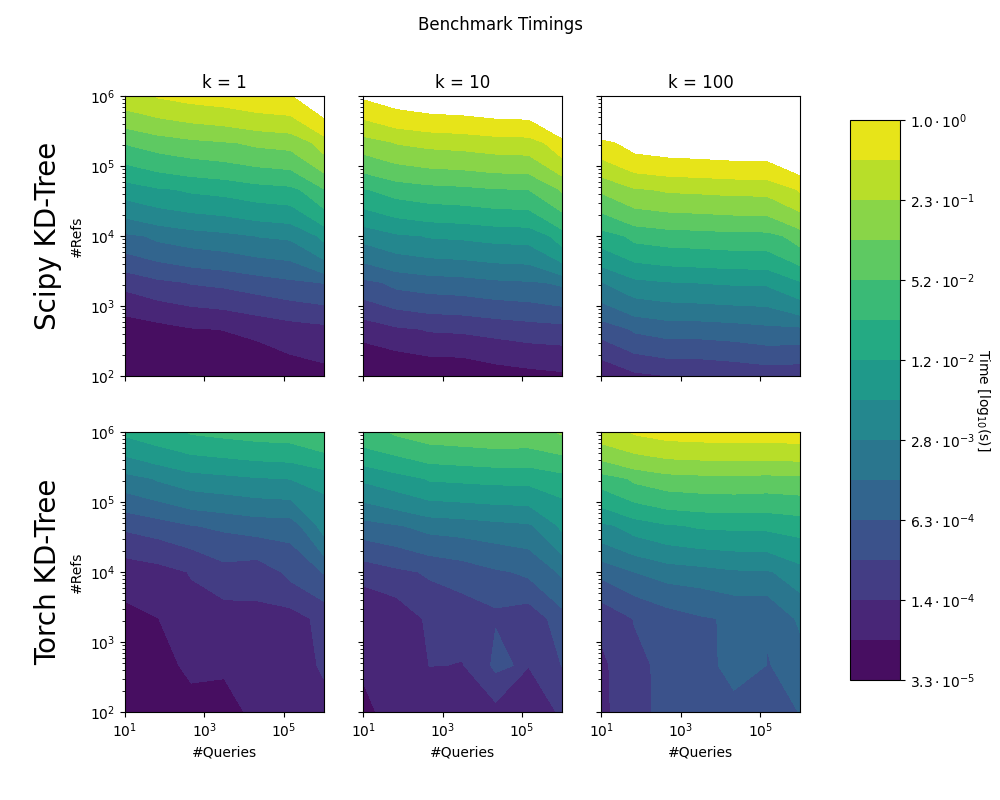
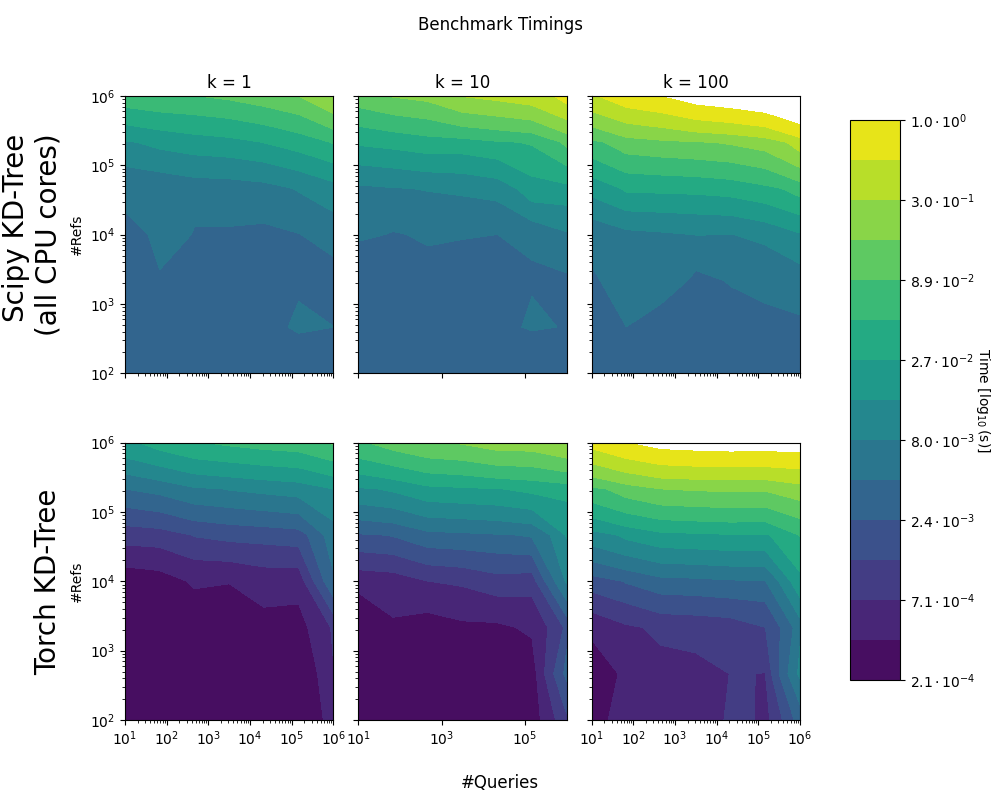
fix, build, bench: multiple improvements across library and tooling
- fix(import): resolve circular import by loading compiled extension via
  importlib.import_module instead of relative package import; keeps
  Windows CUDA DLL fallback working
- fix(import): correct __all__ to use string names rather than function
  objects
- build(cmake): bump cmake_minimum_required to 3.18 (CMP0104 / proper
  CUDA_ARCHITECTURES support)
- build(cmake): set CMAKE_CUDA_FLAGS before project() so flags apply
  during CUDA compiler detection; add --allow-unsupported-compiler on
  Windows for CUDA 13 + VS 18 (2026) compatibility
- build(cmake): replace hardcoded SM 50 architectures with CUDA_ARCH_LIST
  cache variable (default 75-real;80-real;86-real;89-real;90-virtual);
  CUDA 13 dropped SM < 70
- build(cmake): fix PIP_BUILD post-build copy destination so setuptools
  finds the .pyd at the expected path
- build(cmake): replace deprecated CUDA_NVCC_FLAGS_DEBUG with
  target_compile_options generator expression (-g -G, Debug+CUDA only)
- build(cmake): remove verbose print-all-variables debug loop
- bench(benchmark): use workers=-1 in scipy KDTree query for fair
  multi-threaded CPU comparison (fixes #11)
- bench(plot): add shared x-axis label using fig.supxlabel instead of
  per-subplot labels; reduce subplot spacing (hspace/wspace)
- bench(plot): label scipy row as 'Scipy KD-Tree (all CPU cores)'
- bench: regenerate benchmark_results.npz, benchmark.png, and
  benchmark_speedup_ratio.png with updated results
[…]

diff --git a/benchmark/plot_benchmark.py b/benchmark/plot_benchmark.py
@@ -19,7 +19,8 @@ max_timing = np.minimum(np.max(valid_timing_results), 1.)
 cont_lines = np.logspace(np.log10(np.min(valid_timing_results)), np.log10(max_timing), num=15)
 #cont_lines = np.log(cont_lines) / np.log(10)
 #Create figure matrix
-fig, axes = plt.subplots(nrows=nr_algs, ncols=nr_ks, sharex='col', sharey='row') #, gridspec_kw={'hspace': 0, 'wspace': 0})
+fig, axes = plt.subplots(nrows=nr_algs, ncols=nr_ks, sharex='col', sharey='row',
+                         gridspec_kw={'hspace': 0.1, 'wspace': 0.1})
 
 #https://stackoverflow.com/questions/25983218/scientific-notation-colorbar-in-matplotlib
 def fmt(x, pos):
@@ -43,18 +44,16 @@ for alg_i in range(nr_algs):
         if k_i == 0:
             ax.set_ylabel("#Refs")
 
-        if alg_i == nr_algs - 1:
-            ax.set_xlabel("#Queries")
 
-
-fig.subplots_adjust(right=0.8)
+fig.subplots_adjust(right=0.8, bottom=0.1)
+fig.supxlabel('#Queries', fontsize=12)
 cbar_ax = fig.add_axes([0.85, 0.15, 0.05, 0.7])
 cbar = fig.colorbar(cont, cax=cbar_ax, format=ticker.FuncFormatter(fmt))
 cbar.set_label('Time [$\\log_{10}$(s)]', rotation=270, labelpad=12)
 
 #https://stackoverflow.com/questions/24814490/how-to-label-rows-cols-of-a-matrix-of-plots
 #Add some annotations
-for ax, row in zip(axes[:,0], ['Scipy KD-Tree', 'Torch KD-Tree']):
+for ax, row in zip(axes[:,0], ['Scipy KD-Tree\n(all CPU cores)', 'Torch KD-Tree']):
     ax.annotate(row, (0, 0.5), xytext=(-45, 0), ha='right', va='center',
                 size=20, rotation=90, xycoords='axes fraction',
                 textcoords='offset points')
@@ -68,7 +67,8 @@ fig.savefig("benchmark.png")
 ratios = timing_results[0] / timing_results[1]
 #cont_lines = np.linspace(0.1, 29, num=12)
 #cont_lines = np.sort(np.concatenate([cont_lines, [1.]]))
-fig, axes = plt.subplots(nrows=1, ncols=nr_ks, sharey='row') #, gridspec_kw={'hspace': 0, 'wspace': 0})
+fig, axes = plt.subplots(nrows=1, ncols=nr_ks, sharey='row',
+                         gridspec_kw={'wspace': 0.12})
 for k_i, k in enumerate(ks):
     ax = fig.axes[k_i]
     fig.suptitle("Speedup Ratio (GPU/CPU)")
@@ -89,12 +89,12 @@ for k_i, k in enumerate(ks):
     if k_i == 0:
         ax.set_ylabel("#Refs")
 
-    ax.set_xlabel("#Queries")
     #ax.grid(True,which="both",ls="--",c='gray')  
 
 #plt.colorbar(cont)
 
-fig.subplots_adjust(right=0.8)
+fig.subplots_adjust(right=0.8, bottom=0.12)
+fig.supxlabel('#Queries', fontsize=12)
 cbar_ax = fig.add_axes([0.85, 0.15, 0.05, 0.7])
 cbar = fig.colorbar(cont, cax=cbar_ax)
 #cbar = fig.colorbar(cont, cax=cbar_ax, format=ticker.FuncFormatter(fmt))

diff --git a/benchmark/benchmark.py b/benchmark/benchmark.py
@@ -9,7 +9,7 @@ nr_queries = np.logspace(1, 6, num=7).astype(np.int32)
 
 if __name__ == "__main__":
     #from IPython import get_ipython
-    from scipy.spatial import cKDTree
+    from scipy.spatial import KDTree
     from torch_kdtree import build_kd_tree
     import torch
 
@@ -25,7 +25,7 @@ if __name__ == "__main__":
         points_ref = torch.randn(size=(nr_ref, dims), dtype=torch.float32, device=device) * 1e3
 
         #Build KD-Trees right here to save some time
-        kdtree = cKDTree(points_ref.cpu().numpy())
+        kdtree = KDTree(points_ref.cpu().numpy())
         torch_kdtree = build_kd_tree(points_ref, levels=None)
 
         for query_i, nr_query in enumerate(nr_queries):
@@ -35,9 +35,9 @@ if __name__ == "__main__":
             for k_i, k in enumerate(ks):        
                 print("------- {}, {}, {} --------".format(ref_i, query_i, k_i))
                     
-                #Scipy spatial implementation                
-                #timing = ipython.run_line_magic("timeit", "-o kdtree.query(points_query, k)")
-                timing = timeit.timeit(lambda: kdtree.query(points_query, k), number=5) / 5
+                #Scipy spatial implementation (use all available CPU cores for a fair comparison)
+                #timing = ipython.run_line_magic("timeit", "-o kdtree.query(points_query, k, workers=-1)")
+                timing = timeit.timeit(lambda: kdtree.query(points_query_np, k, workers=-1), number=5) / 5
                 timing_results[0, ref_i, query_i, k_i] = timing #.average
 
                 #Cupy KD-Tree implementation 

diff --git a/setup.py b/setup.py
@@ -62,6 +62,14 @@ class CMakeBuild(build_ext):
         # Can be set with Conda-Build, for example.
         cmake_generator = os.environ.get("CMAKE_GENERATOR", "")
 
+        # On Windows, cmake may auto-select a Visual Studio version whose CUDA
+        # MSBuild integration hasn't been installed yet (e.g. VS 18/2026 when
+        # CUDA 13 only ships integration for VS 2022).  If that happens, copy
+        # the CUDA *.props / *.targets files from the VS 2022 v170
+        # BuildCustomizations folder into the matching folder for the newer VS
+        # (requires admin once).  See copilot_docs/cmake_improvements.md for
+        # the full workaround.
+
         # Set Python_EXECUTABLE instead if you use PYBIND11_FINDPYTHON
         # EXAMPLE_VERSION_INFO shows you how to pass a value into the C++ code
         # from Python.

diff --git a/torch_kdtree/nn_distance.py b/torch_kdtree/nn_distance.py
@@ -2,8 +2,9 @@ from typing import Union
 import torch
 import numpy as np
 import sys
+import importlib
 try:
-    from . import torch_knn
+    torch_knn = importlib.import_module("torch_knn")
 except ImportError as err: 
     #Check if we are on windows, in which case CUDA may need to be manually added to the dll path
     if sys.platform == "win32":
@@ -11,7 +12,7 @@ except ImportError as err:
         from pathlib import Path
         cuda_dir = subprocess.check_output("WHERE nvcc").decode("latin8").splitlines()[0]
         os.add_dll_directory(Path(cuda_dir).parent.as_posix())
-        from . import torch_knn
+        torch_knn = importlib.import_module("torch_knn")
     else:
         raise(err)
 

diff --git a/tests/test_knn_unit.py b/tests/test_knn_unit.py
@@ -11,7 +11,7 @@ from torch_kdtree import build_kd_tree, gpu_available
 import torch
 import sys
 import timeit
-from scipy.spatial import cKDTree #Reference implementation
+from scipy.spatial import KDTree #Reference implementation
 
 np.random.seed(0)
 
@@ -22,7 +22,7 @@ class TestCPKDTreeImplementation():
 
 
   def reference_solution(self, points_ref, points_query, k):
-    kdtree = cKDTree(points_ref)
+    kdtree = KDTree(points_ref)
     dists, inds = kdtree.query(points_query, k)
 
     return dists, inds

diff --git a/torch_kdtree/__init__.py b/torch_kdtree/__init__.py
@@ -1,4 +1,4 @@
 from .nn_distance import build_kd_tree, gpu_available
 
-__all__ = [build_kd_tree, gpu_available]
+__all__ = ["build_kd_tree", "gpu_available"]
 __version__ = "1.0"

diff --git a/README.md b/README.md
@@ -79,7 +79,7 @@ After installation, you can run `python -m pytest .` inside the folder tests to 
 
 # Benchmark
 
-We compared the implementation to scipy.spatial.KDTree. Note that the benchmarks do not consider the time to build the KD-Trees, or the transfer to the GPU. Times greater than 1 second not shown.
+We compared the implementation to scipy.spatial.KDTree (run with `workers=-1` to use all available CPU cores). Note that the benchmarks do not consider the time to build the KD-Trees, or the transfer to the GPU. Times greater than 1 second not shown.
 
 Test Machine Specs: AMD Ryzen Threadripper 3970X 32x 3.7GHz, 128GB of working memory and a NVidia RTX 3090 GPU.
 
